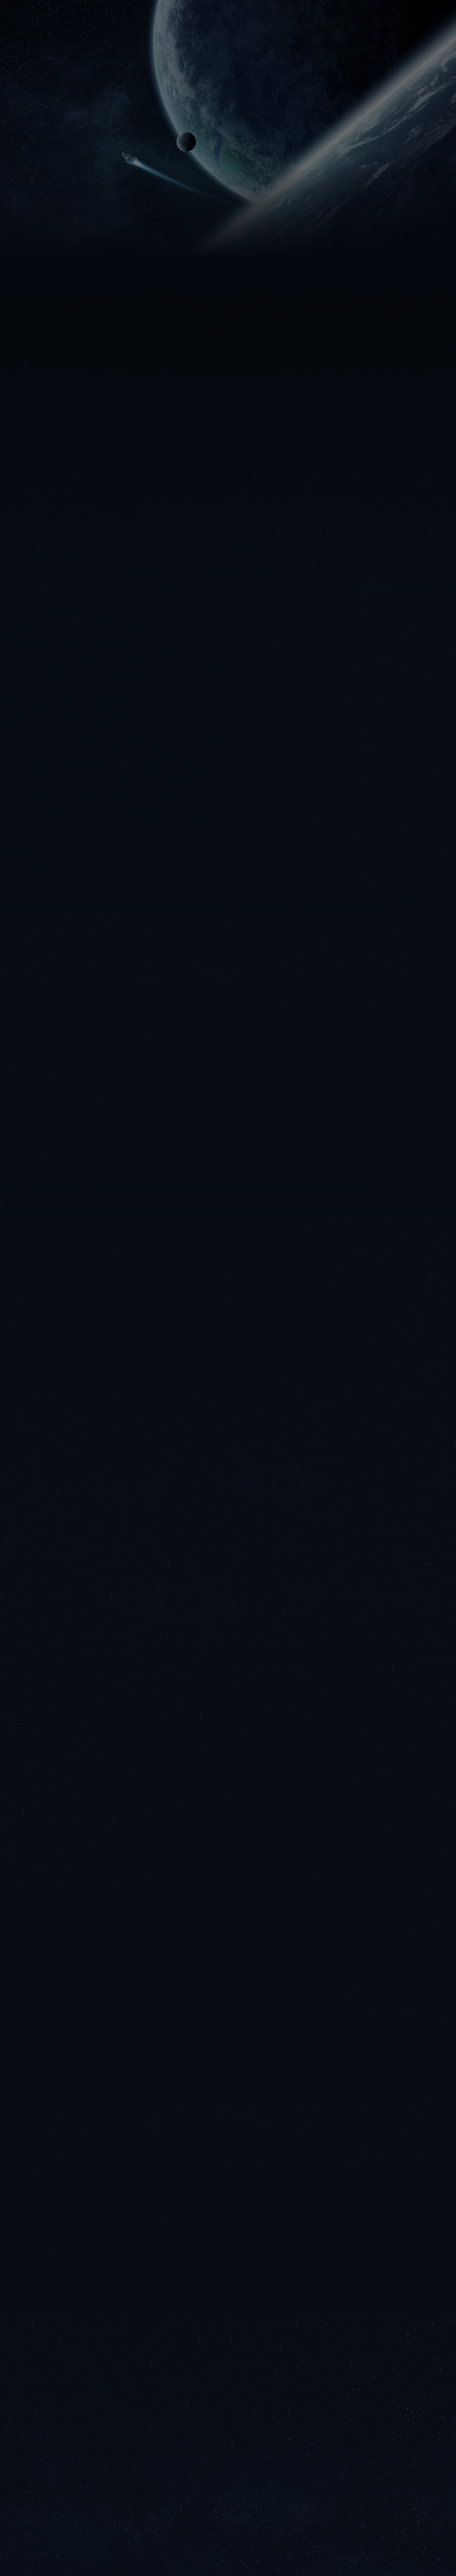
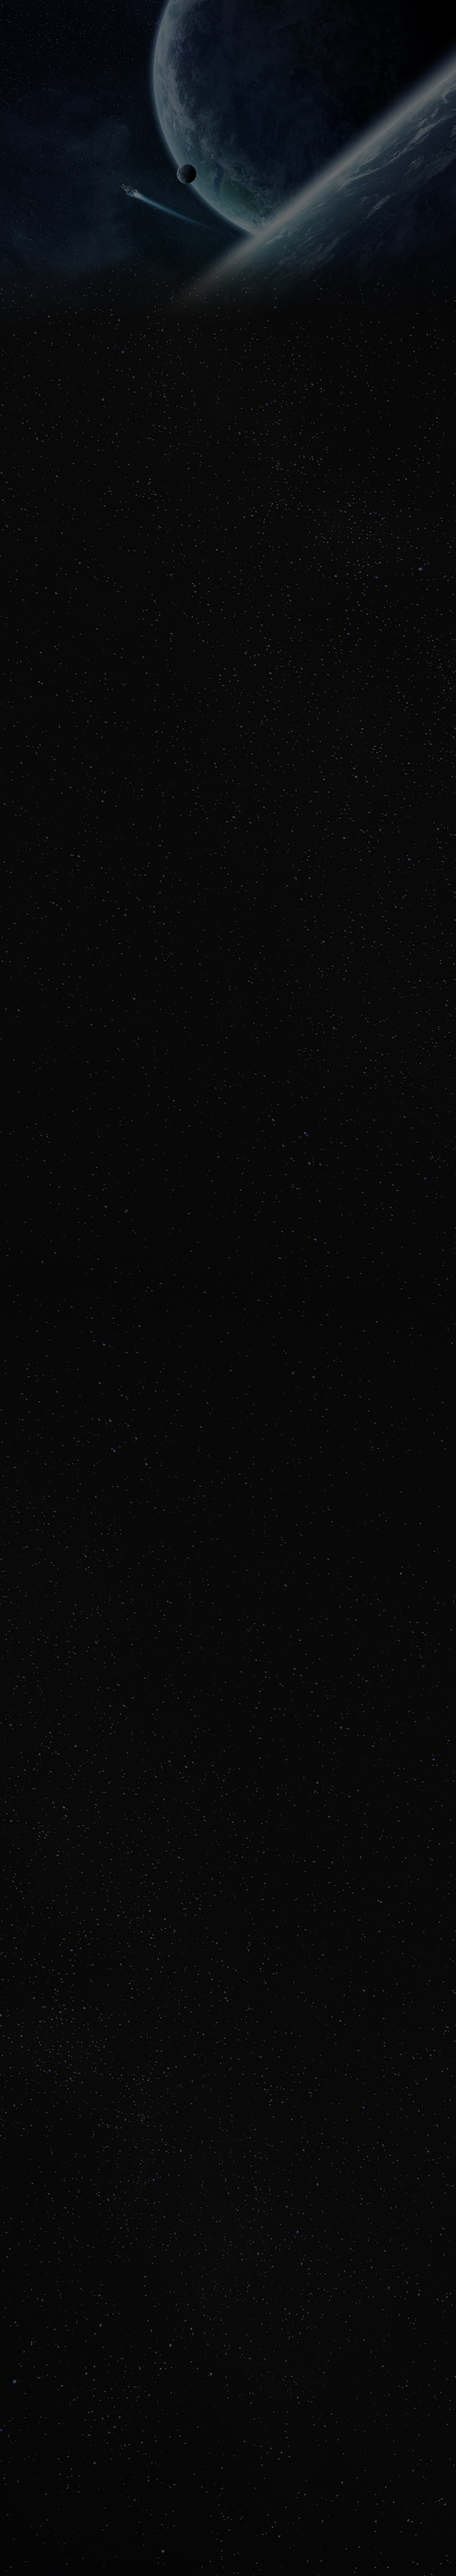
header margin fixed

Changed region(s): [[0.2812, 0.0, 1.0, 0.1247]]

diff --git a/src/components/availability/availability.js b/src/components/availability/availability.js
@@ -13,7 +13,7 @@ const images = importAll(require.context('./images', false, /\.(png|jpe?g|svg)$/
 export default function Availability() {
     const isMobile = useMediaQuery({ query: '(max-width: 575.98px)' })
     return (
-        <section className={styles.bg + " section"}>
+        <section className="section">
             <div className="container">
                 <h1 className={styles.title}>ЕЩЕ НИКОГДА ONLINE-БИЗНЕС НЕ БЫЛ ТАК ПРОСТ И ДОСТУПЕН, ОСОБЕННО ДЛЯ:</h1>
                 <div className={styles.row + " row"}>

diff --git a/src/components/honestly/honestly.js b/src/components/honestly/honestly.js
@@ -13,7 +13,7 @@ const images = importAll(require.context('./images', false, /\.(png|jpe?g|svg)$/
 class Honestly extends Component {
     render() {
         return (
-            <section className={styles.bg + " section"}>
+            <section className="section">
                 <div className="container">
                     <div className="col" style={{alignItems: 'center'}}>
                         <h1 className={styles.title}>ДАВАТЕ ПО-ЧЕСТНОМУ</h1>

diff --git a/src/components/steps/steps.js b/src/components/steps/steps.js
@@ -4,7 +4,7 @@ import styles from './steps.module.scss'
 class Steps extends Component {
     render() {
         return (
-            <section className={styles.bg + " section"}>
+            <section className="section">
                 <div className="container">
                     <div className={styles.content +" col"}>
                         <h1 className={styles.title}>КАКИЕ МОИ ДАЛЬНЕЙШИЕ ШАГИ?</h1>

diff --git a/src/components/changes/changes.js b/src/components/changes/changes.js
@@ -6,7 +6,7 @@ import earth from "./earth.png";
 class Changes extends Component {
     render() {
         return (
-            <section className={styles.bg + " section"}>
+            <section className="section">
                 <img className={styles.img} src={earth} alt="earth"/>
                 <div className="container">
                     <div className={styles.content + " col"}>

diff --git a/src/components/platform/platform.js b/src/components/platform/platform.js
@@ -5,7 +5,7 @@ import Slick from "../slick/slick";
 
 export default function Platform() {
     return (
-        <section className={styles.bg + " section"}>
+        <section className="section">
             <div className="container">
                 <div className={styles.content +" col"}>
                     <h1 className={styles.title}>ЭТО БЕСПЛАТНО? ДА!</h1>

diff --git a/src/components/about/about.js b/src/components/about/about.js
@@ -6,7 +6,7 @@ import laptop from "./laptop.png"
 class About extends Component {
     render() {
         return (
-            <section className={styles.bg + " section"}>
+            <section className="section">
                 <div className="container">
                     <div className={styles.title}>
                         <img src={logo} alt="logo"/>

diff --git a/src/style.scss b/src/style.scss
@@ -94,7 +94,7 @@ h6 {
   width: 100vw;
   min-height: 100%;
   overflow: hidden;
-  background-position: center top;
+  background-position: center 10%;
   background-repeat: no-repeat;
   background-size: cover;
   background-image: url("bg.jpg");

diff --git a/src/components/header/header.module.scss b/src/components/header/header.module.scss
@@ -61,6 +61,7 @@
   box-shadow: 0 4px 20px rgba(0, 0, 0, 0.5);
   border-radius: 20px;
   padding: 20px 47px;
+  margin-bottom: 180px;
 
   @media (max-width: 575.98px){
     padding: 20px 25px;
